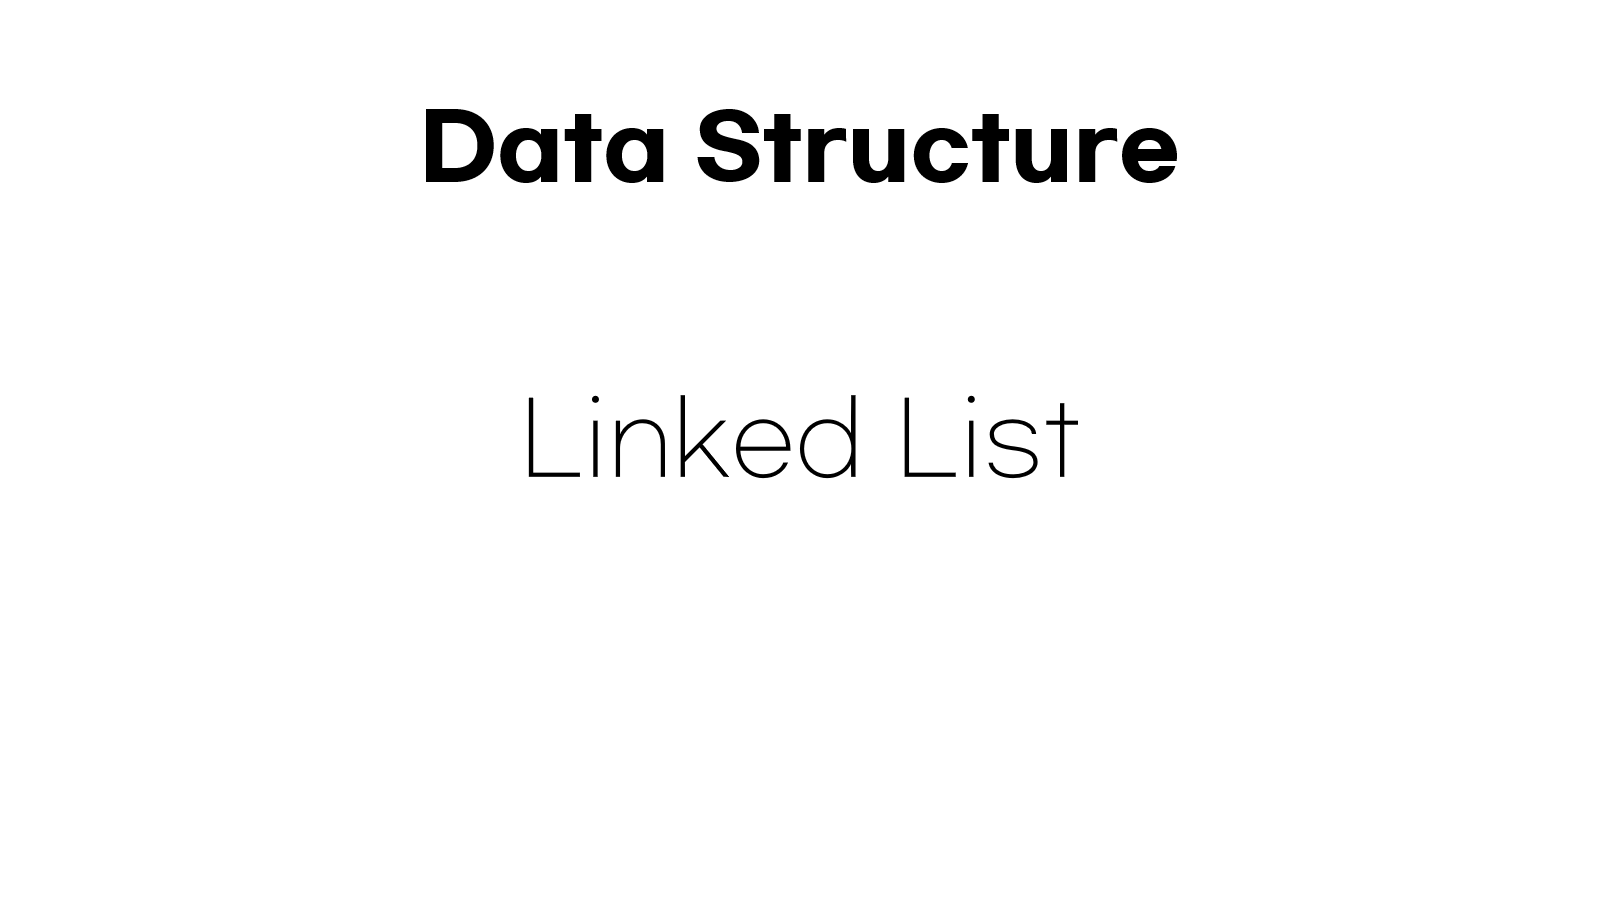
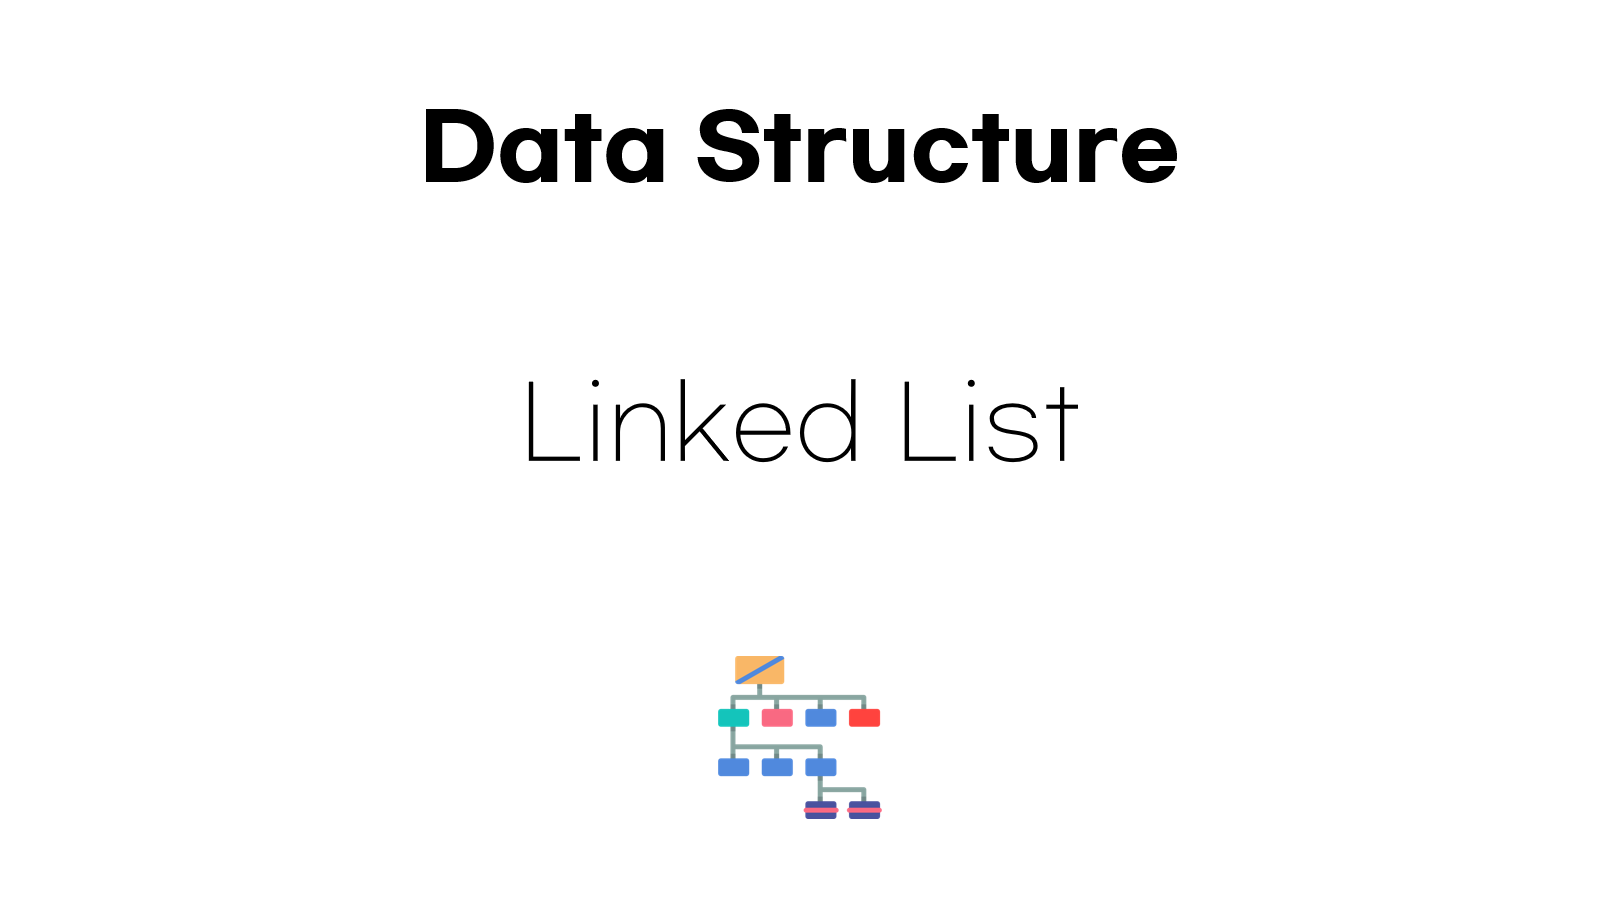
Change of Thumbnail and Posting of Content

diff --git a/_posts/2020-08-25-android-lifecycle.md b/_posts/2020-08-25-android-lifecycle.md
@@ -1,0 +1,28 @@
+---
+layout: post
+title:  "Android - Life Cycle"
+summary: 안드로이드 생명주기
+author: 서준석
+date: '2020-08-27 01:10:00'
+category: android
+thumbnail: /assets/img/android/thumbnail_lifecycle.png
+keywords: android, lifecycle
+permalink: /blog/android-lifecycle
+---
+# Life Cycle - 생명주기
+
+<hr/>
+<img src="../assets/img/android/activity_lifecycle.png" width=50%/>
+
+## 1. 개념
+## 2. 수명 주기 콜백
+* ### onCreate()
+* ### onStart()
+* ### onResume()
+* ### onPause()
+* ### onStop()
+* ### onDestroy()
+
+
+* 참고 사이트
+  * [Android Developers](https://developer.android.com/guide/components/activities/activity-lifecycle?hl=ko)

diff --git a/categories/android.md b/categories/android.md
@@ -1,0 +1,13 @@
+---
+layout: page
+title: android
+permalink: /blog/categories/android/
+---
+
+<h5> Posts by Category : {{ page.title }} </h5>
+
+<div class="card">
+{% for post in site.categories.android %}
+ <li class="category-posts"><span>{{ post.date | date_to_string }}</span> &nbsp; <a href="{{ post.url }}">{{ post.title }}</a></li>
+{% endfor %}
+</div>

diff --git a/tags/android.md b/tags/android.md
@@ -1,0 +1,13 @@
+---
+layout: page
+title: android
+permalink: /blog/tags/android
+---
+ 
+<h5> Posts by Tag : {{ page.title }} </h5>
+
+<div class="card">
+{% for post in site.tags.android %}
+ <li class="category-posts"><span>{{ post.date | date_to_string }}</span> &nbsp; <a href="{{ post.url }}">{{ post.title }}</a></li>
+{% endfor %}
+</div>
